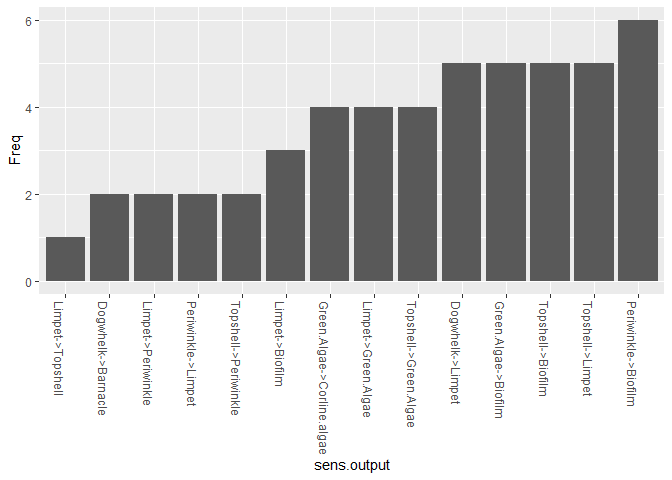
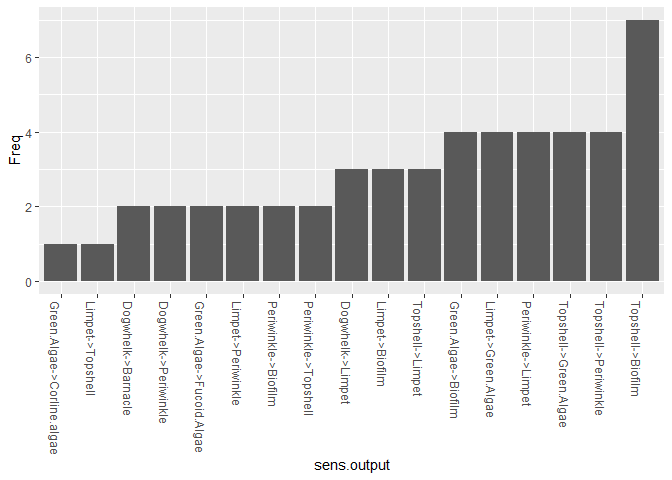
May 2024

diff --git a/README.md b/README.md
@@ -46,8 +46,6 @@ designed to be user-friendly, making advanced probabilistic modelling
 techniques accessible to ecology and environmental researchers and
 practitioners.
 
-MORE HERE?XXX
-
 # Installation
 
 You can install the development version of bbnet from
@@ -520,20 +518,23 @@ bbn.sensitivity(bbn.model = my_BBN, boot_max = 100, 'Limpet', 'Green Algae')
 <img src="man/figures/README-unnamed-chunk-8-1.png" width="100%" />
 
     #>                   sens.output Freq
-    #> 1            Limpet->Topshell    1
-    #> 2          Dogwhelk->Barnacle    2
-    #> 3          Limpet->Periwinkle    2
-    #> 4          Periwinkle->Limpet    2
-    #> 5        Topshell->Periwinkle    2
-    #> 6             Limpet->Biofilm    3
-    #> 7  Green.Algae->Corline.algae    4
-    #> 8         Limpet->Green.Algae    4
-    #> 9       Topshell->Green.Algae    4
-    #> 10           Dogwhelk->Limpet    5
-    #> 11       Green.Algae->Biofilm    5
-    #> 12          Topshell->Biofilm    5
-    #> 13           Topshell->Limpet    5
-    #> 14        Periwinkle->Biofilm    6
+    #> 1  Green.Algae->Corline.algae    1
+    #> 2            Limpet->Topshell    1
+    #> 3          Dogwhelk->Barnacle    2
+    #> 4        Dogwhelk->Periwinkle    2
+    #> 5   Green.Algae->Fucoid.Algae    2
+    #> 6          Limpet->Periwinkle    2
+    #> 7         Periwinkle->Biofilm    2
+    #> 8        Periwinkle->Topshell    2
+    #> 9            Dogwhelk->Limpet    3
+    #> 10            Limpet->Biofilm    3
+    #> 11           Topshell->Limpet    3
+    #> 12       Green.Algae->Biofilm    4
+    #> 13        Limpet->Green.Algae    4
+    #> 14         Periwinkle->Limpet    4
+    #> 15      Topshell->Green.Algae    4
+    #> 16       Topshell->Periwinkle    4
+    #> 17          Topshell->Biofilm    7
 
 The function works by bootstrapping with multiple changes to prior
 values and interaction strengths in the network. The frequency shows the
